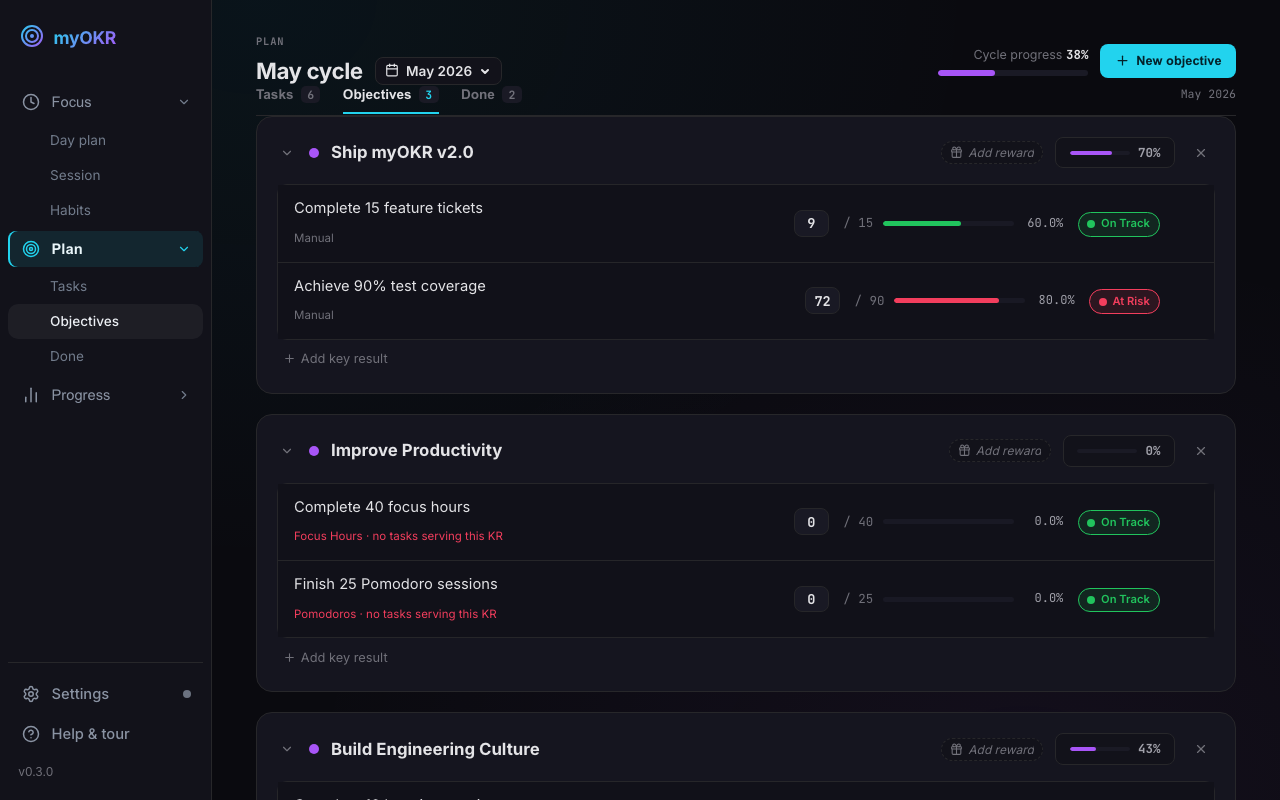
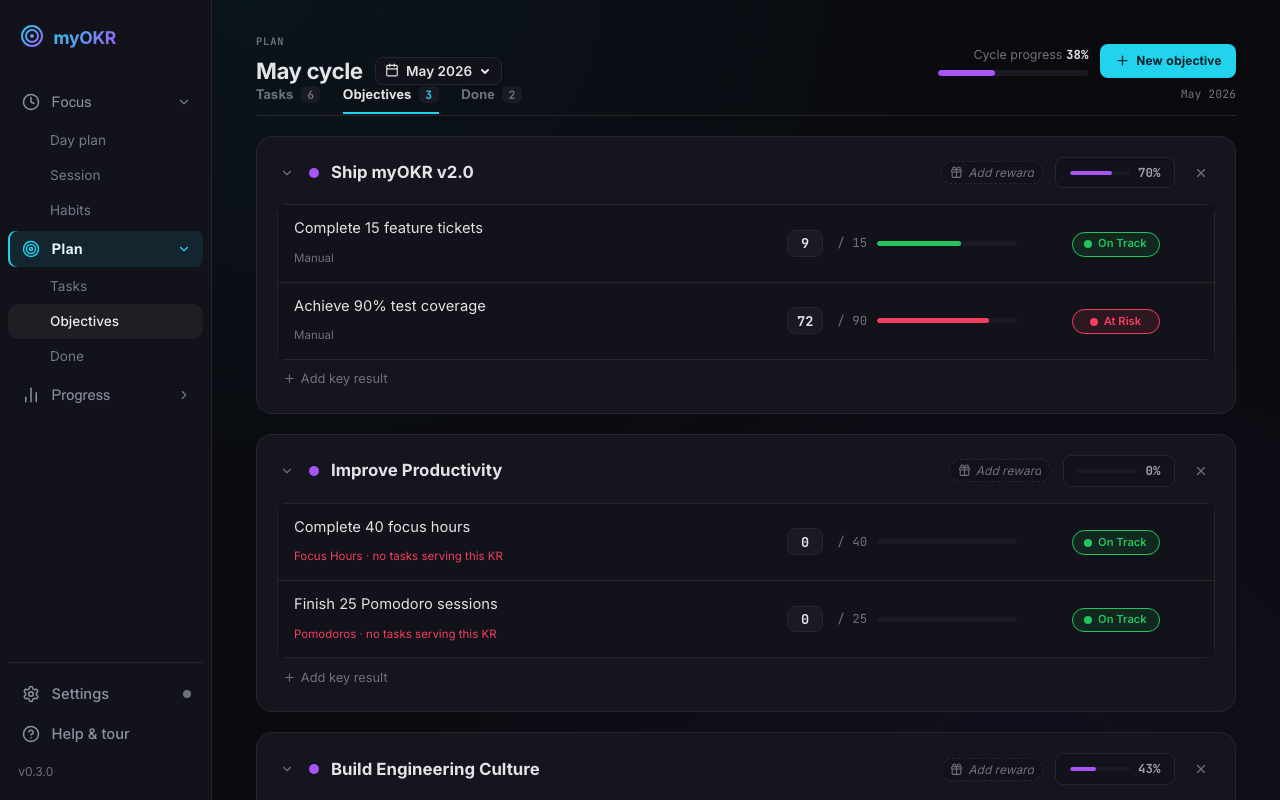
fix(objectives): polish round — tab-strip gap, no percent, equal pill/bar widths
UI feedback (TDD, red first): the first objective card glued to the tab
strip because okr-container isn't flex (Tasks/Done get their 1.25rem gap
from the container's flex gap) — the strip now carries a scoped
margin-bottom. KR rows drop the percentage readout after the bar; the bar
becomes fixed-width (140px base, 90px ≤1100, flex in the ≤900 re-stack) and
the confidence pills get min-width + centering so On Track / At Risk /
Off Track align down the column. habit-kr + redesign specs updated for the
dropped percent; visual baselines regenerated (darwin + linux).

diff --git a/tests/objectives-redesign.spec.ts b/tests/objectives-redesign.spec.ts
@@ -69,9 +69,8 @@ test.describe('Objectives screen redesign (P7 revamp)', () => {
 
     // Column 2: current value in the outlined badge
     await expect(kr.locator('.kr-value-badge')).toHaveText('9');
-    // Column 3: "/ 15" target + bar + percent
+    // Column 3: "/ 15" target + bar (no percent readout — UI-polish round dropped it)
     await expect(kr.locator('.kr-target-text')).toHaveText('/ 15');
-    await expect(kr.locator('.kr-progress-percent')).toContainText('60.0%');
     // Column 4: status pill far right
     await expect(kr.locator('.kr-confidence-pill')).toContainText('On Track');
     // Column 1 subtitle: mode label for a manual KR
@@ -195,6 +194,47 @@ test.describe('Objectives screen redesign (P7 revamp)', () => {
     const kr = card.locator('.kr-row', { hasText: 'Hold 40 focus hours a month' });
     await expect(kr.locator('.kr-subtitle')).toContainText('Focus Hours');
     await expect(kr.locator('.kr-target-text')).toHaveText('/ 10');
+  });
+
+  test('UI polish: tab strip to first card keeps the Plan-group gap', async ({ page }) => {
+    // Tasks/Done space their content with the container's 1.25rem (20px) flex
+    // gap — Objectives must not glue the first card to the tab strip
+    const strip = await page.locator('.okr-container .plan-tab-strip').boundingBox();
+    const card = await page.locator('.objective-card').first().boundingBox();
+    expect(strip).not.toBeNull();
+    expect(card).not.toBeNull();
+    const gap = card!.y - (strip!.y + strip!.height);
+    expect(gap).toBeGreaterThanOrEqual(18);
+  });
+
+  test('UI polish: KR rows drop the percent; pills and bars are equal-width', async ({ page }) => {
+    await page.waitForTimeout(350); // settle the slideDown entrance (popup positioning)
+
+    // No percentage text after the bar
+    await expect(page.locator('.kr-progress-percent')).toHaveCount(0);
+
+    // Status pills are equal-width regardless of label (On Track / At Risk / Off Track)
+    const pillWidth = async (rowText: string) => {
+      const box = await page.locator('.kr-row', { hasText: rowText }).locator('.kr-confidence-pill').boundingBox();
+      return box!.width;
+    };
+    const onTrack = await pillWidth('Complete 15 feature tickets'); // seed: on_track
+    const atRisk = await pillWidth('Achieve 90% test coverage');    // seed: at_risk
+    const kr = page.locator('.kr-row', { hasText: 'Complete 15 feature tickets' });
+    await kr.locator('.kr-confidence-pill').click();
+    await page.locator('.confidence-popup .confidence-option', { hasText: 'Off Track' }).click();
+    const offTrack = await pillWidth('Complete 15 feature tickets');
+    expect(Math.abs(onTrack - atRisk)).toBeLessThanOrEqual(1);
+    expect(Math.abs(onTrack - offTrack)).toBeLessThanOrEqual(1);
+
+    // Progress bars are the same width in every KR row
+    const bars = page.locator('.kr-row .kr-progress-bar');
+    const n = await bars.count();
+    expect(n).toBeGreaterThanOrEqual(6);
+    const first = (await bars.first().boundingBox())!.width;
+    for (let i = 1; i < n; i++) {
+      expect(Math.abs((await bars.nth(i).boundingBox())!.width - first)).toBeLessThanOrEqual(1);
+    }
   });
 
   test('empty cycle: EmptyState starter action opens the creation form', async ({ page }) => {

diff --git a/src/styles/okr.css b/src/styles/okr.css
@@ -14,6 +14,12 @@
   padding: 1.25rem;
 }
 
+/* Plan-group parity: Tasks/Done space their tab strip from the content via the
+   container's flex gap (1.25rem); okr-container isn't flex, so the gap lives here */
+.okr-container .plan-tab-strip {
+  margin-bottom: 1.25rem;
+}
+
 /* ===== CYCLE COUNTDOWN (P7 revamp — the selector moved inline with the title) ===== */
 .okr-cycle-countdown {
   display: block;
@@ -678,22 +684,14 @@
 }
 
 .kr-progress-bar {
-  flex: 1;
-  min-width: 60px;
-  max-width: 200px;
+  /* Fixed width so every row's bar aligns — the fill carries the ratio,
+     the percent readout lives in the badge/target, not after the bar */
+  flex: none;
+  width: 140px;
   height: 5px;
   background: var(--bg-tertiary);
   border-radius: 3px;
   overflow: hidden;
-}
-
-.kr-progress-percent {
-  font-family: var(--font-mono);
-  font-size: 0.75rem;
-  color: var(--text-secondary);
-  white-space: nowrap;
-  min-width: 40px;
-  text-align: right;
 }
 
 .kr-progress-fill {
@@ -1162,6 +1160,10 @@
   .kr-row {
     grid-template-columns: minmax(0, 1fr) auto minmax(100px, 160px) auto 24px;
   }
+
+  .kr-progress-bar {
+    width: 90px;
+  }
 }
 
 /* ≤900: KR row re-stacks to two lines (info on top, metrics below);
@@ -1177,6 +1179,12 @@
 
   .kr-delete-btn {
     opacity: 1;
+  }
+
+  .kr-progress-bar {
+    flex: 1;
+    width: auto;
+    min-width: 60px;
   }
 
   .kr-add-row input[type='text'] {
@@ -1203,10 +1211,6 @@
     left: 0;
     max-height: calc(100vh - 200px);
     overflow-y: auto;
-  }
-
-  .kr-progress-bar {
-    max-width: none;
   }
 }
 
@@ -1325,7 +1329,9 @@
 .kr-confidence-pill {
   display: inline-flex;
   align-items: center;
+  justify-content: center;
   gap: 0.35rem;
+  min-width: 5.5rem;
   padding: 0.15rem 0.55rem;
   border-radius: 999px;
   border: 1px solid;

diff --git a/tests/habit-kr-workflow.spec.ts b/tests/habit-kr-workflow.spec.ts
@@ -104,7 +104,6 @@ test.describe('Habit KR Linking & Progress Workflow', () => {
     // (P7 revamp grid: value badge holds the current, the target reads "/ 10")
     await expect(krRow.locator('.kr-value-badge')).toHaveText('1');
     await expect(krRow.locator('.kr-target-text')).toContainText('/ 10');
-    await expect(krRow.locator('.kr-progress-percent')).toContainText('10.0%');
 
     // 5. Clean up habit (which also tests KR unlink fallback to manual mode)
     await navTo(page, 'Habits');

diff --git a/src/components/okr/KeyResultRow.tsx b/src/components/okr/KeyResultRow.tsx
@@ -211,9 +211,6 @@ export default function KeyResultRow({ kr, tasks, focusDurationMinutes, onUpdate
               style={{ width: `${progress}%` }}
             />
           </div>
-          <span className="kr-progress-percent">
-            {progress.toFixed(1)}%
-          </span>
         </div>
         {showValuePopover && (
           <div className="kr-value-popover" onClick={e => e.stopPropagation()}>

diff --git a/docs/design-system.md b/docs/design-system.md
@@ -634,7 +634,10 @@ Redesigned in the objectives-revamp grilling session (2026-08-19). Desktop only
 
 - **Header**: eyebrow `PLAN`, h1 `{Mon} cycle` (e.g. "May cycle"), the
   `CycleSelector` chip **inline right of the h1** (not stacked below), countdown
-  line (`N days left in cycle · X objectives · Y key results`) beneath. Right
+  line (`N days left in cycle · X objectives · Y key results`) beneath; the
+  tab strip keeps the Plan-group's **1.25rem gap** above the first card
+  (2026-08-19 polish — `okr-container` isn't flex, so the gap is a scoped
+  `margin-bottom` on the strip). Right
   side: **inline `Cycle progress {N}%`** label + violet (`--color-objective`)
   bar — replacing the boxed "Overall" widget (whose logo-only gradient fill was
   a violation) — then the **"+ New objective"** button. **No Search ⌘K button**
@@ -661,7 +664,11 @@ Redesigned in the objectives-revamp grilling session (2026-08-19). Desktop only
   adjusts its target** (Focus Hours included); derived currents are computed
   from linked tasks/habits and are never hand-written). Col 3: `/ {target}` mono + bar in **confidence colors**
   (green/rose/red per `CONFIDENCE_META`; `not_set` = grey `--okr-not-set`,
-  never the gradient) + percent. Col 4: confidence pill, far right. Delete ✕
+  never the gradient). **No percent readout** after the bar (2026-08-19 polish
+  round — the badge/target carry the numbers); the bar is a **fixed width**
+  (140px base; 90px ≤1100; flex only in the ≤900 re-stack) and the pills are
+  **equal-width** (`min-width` + centered) so On Track / At Risk / Off Track
+  align down the column. Col 4: confidence pill, far right. Delete ✕
   is **hover-reveal** (always visible ≤900px — touch rule). Habit KRs keep the
   habit-link select on a full-width nested line.
 - **Add-KR row**: collapsed **"+ Add key result"** text button; click expands
